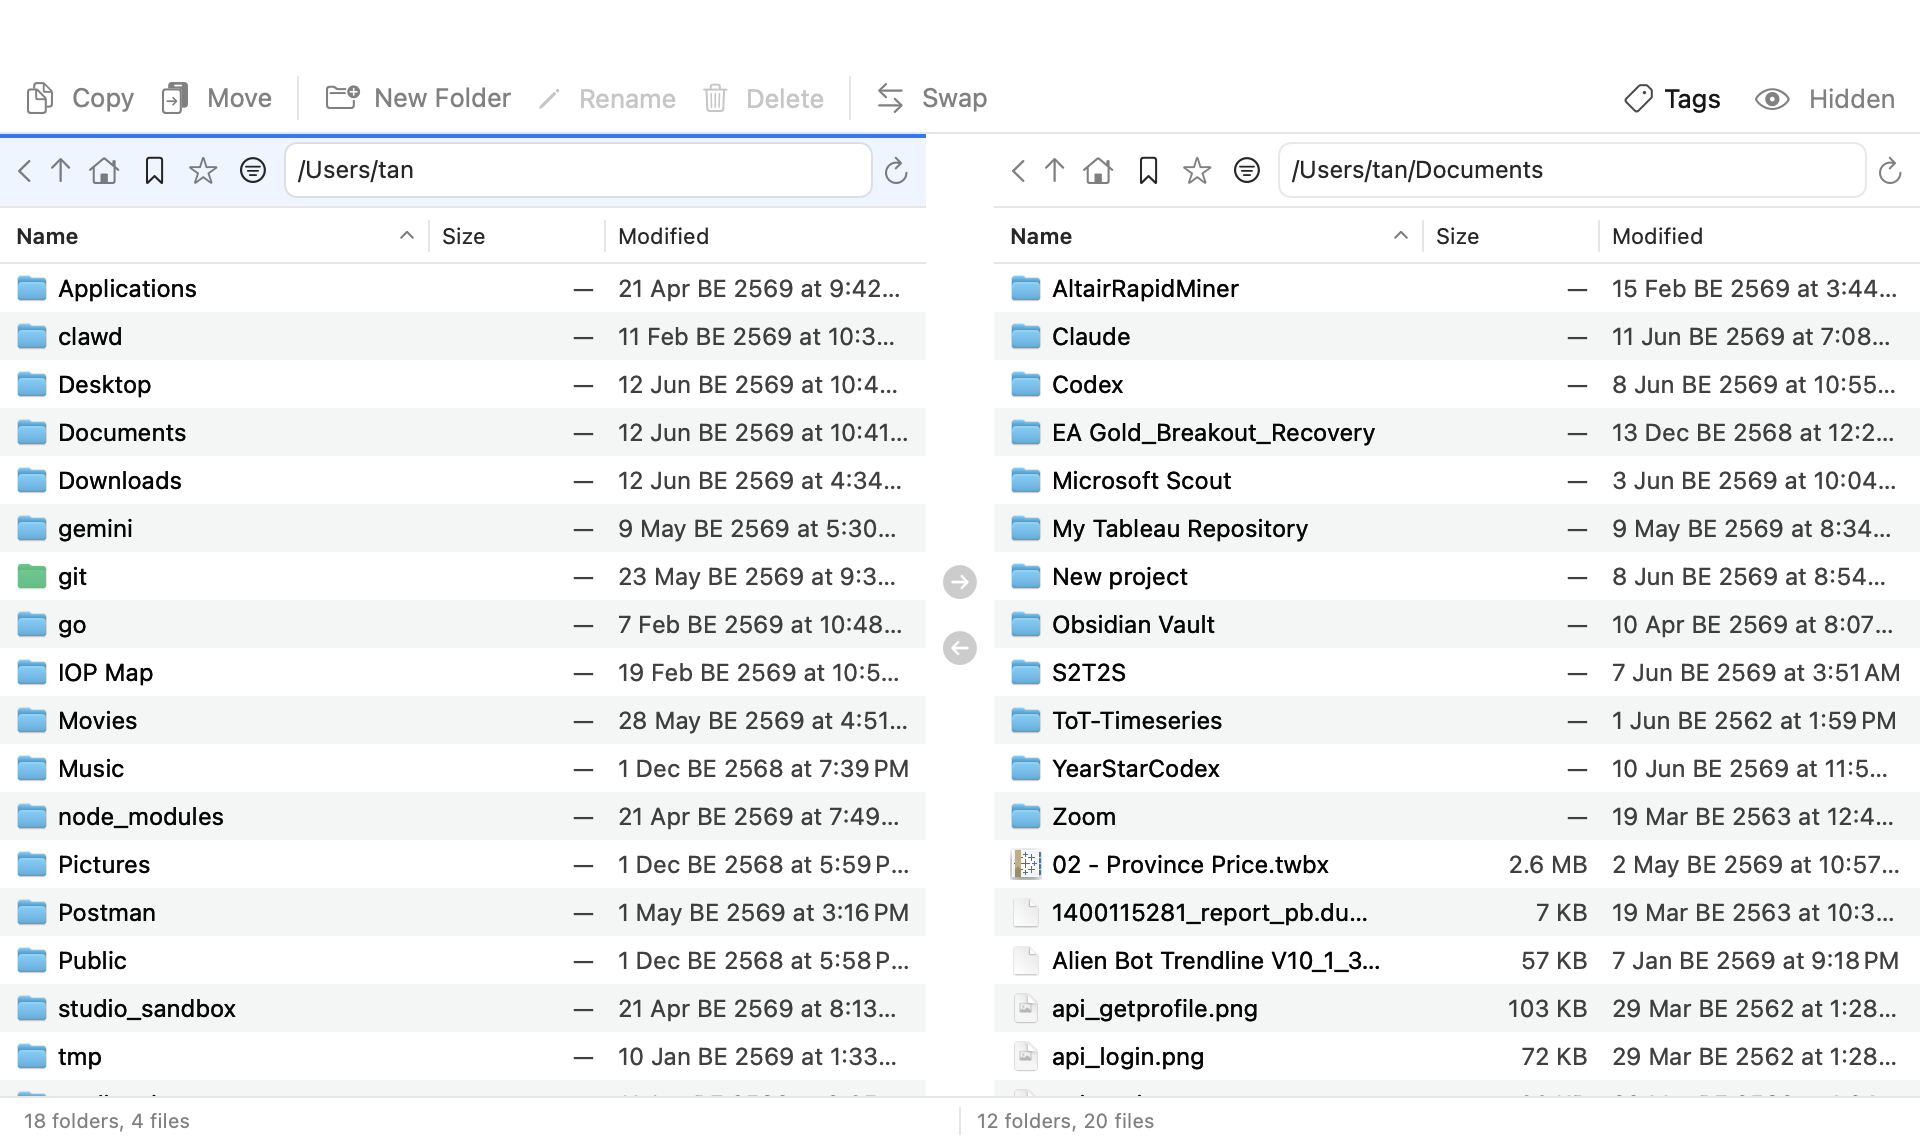
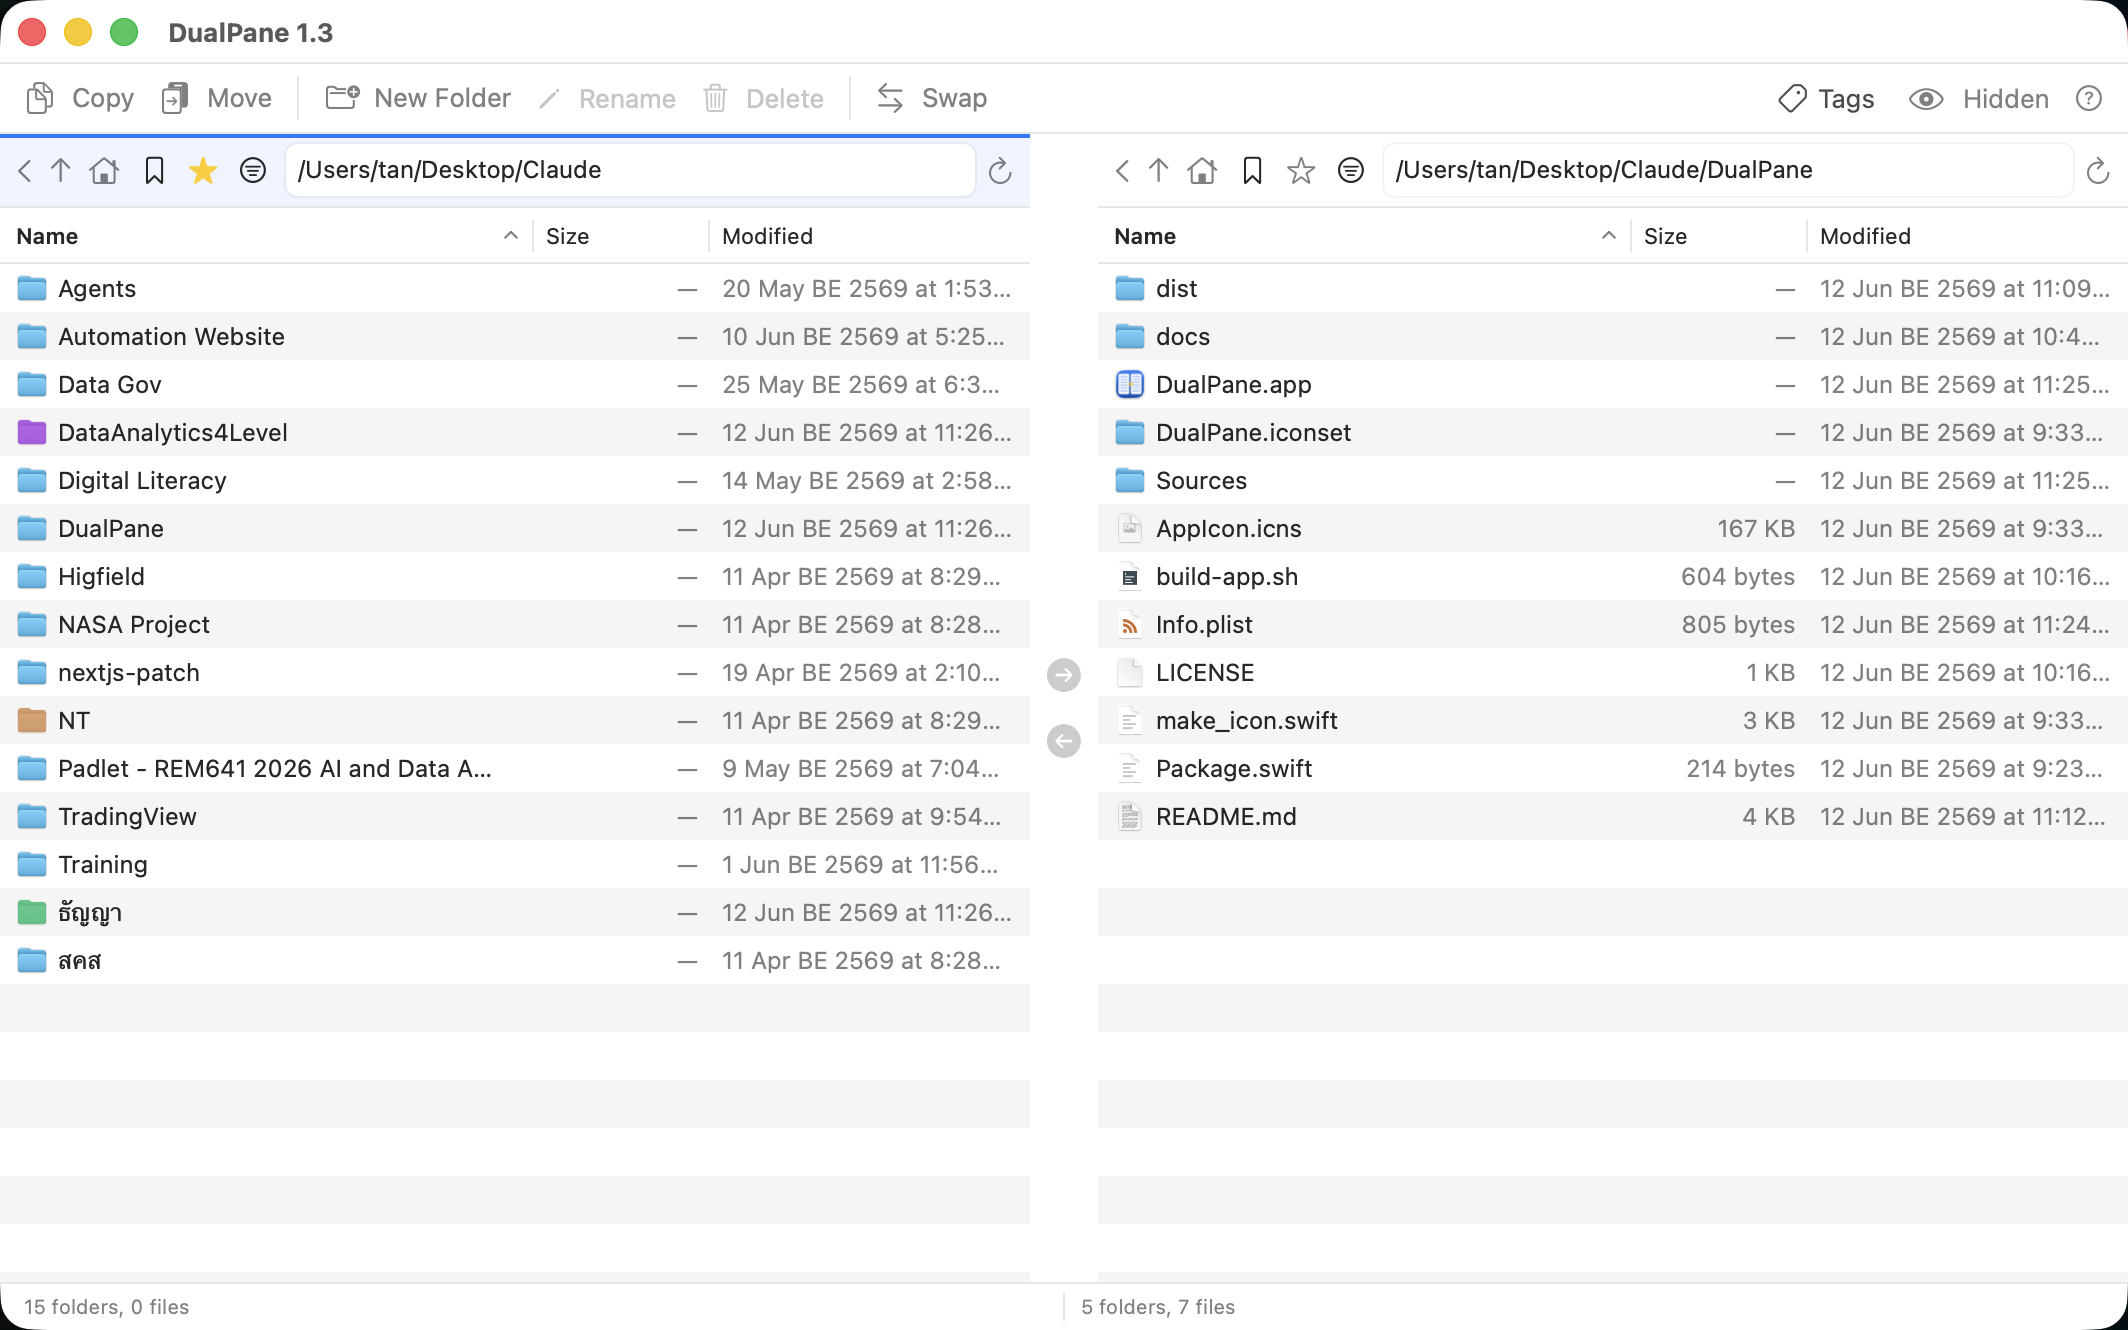
Add Rename to the right-click context menu
Shares the rename dialog with the toolbar button; enabled only for
single selection.

diff --git a/Sources/ContentView.swift b/Sources/ContentView.swift
@@ -45,6 +45,7 @@ struct ContentView: View {
                     isActive: activeSide == .left,
                     showTagColors: showTagColors,
                     onActivate: { activeSide = .left },
+                    onRename: { startRename(in: leftPane) },
                     onDropFiles: { copyDropped($0, into: leftPane) },
                     onCopyItems: { copyProviders(from: leftPane, cut: $0) },
                     onPasteItems: { paste($0, into: leftPane) }
@@ -56,6 +57,7 @@ struct ContentView: View {
                     isActive: activeSide == .right,
                     showTagColors: showTagColors,
                     onActivate: { activeSide = .right },
+                    onRename: { startRename(in: rightPane) },
                     onDropFiles: { copyDropped($0, into: rightPane) },
                     onCopyItems: { copyProviders(from: rightPane, cut: $0) },
                     onPasteItems: { paste($0, into: rightPane) }
@@ -102,10 +104,7 @@ struct ContentView: View {
             }
             .keyboardShortcut("n")
             toolButton("pencil", "Rename", help: "Rename selected item (⌘R)") {
-                if let item = active.selectedItems.first {
-                    renameText = item.name
-                    renameTarget = item
-                }
+                startRename(in: active)
             }
             .keyboardShortcut("r")
             .disabled(active.selection.count != 1)
@@ -442,6 +441,12 @@ struct ContentView: View {
         rightPane.reload()
     }
 
+    private func startRename(in pane: PaneModel) {
+        guard let item = pane.selectedItems.first else { return }
+        renameText = item.name
+        renameTarget = item
+    }
+
     private func performRename(_ item: FileItem) {
         defer { renameTarget = nil }
         let trimmed = renameText.trimmingCharacters(in: .whitespaces)
@@ -484,6 +489,7 @@ struct PaneView: View {
     let isActive: Bool
     let showTagColors: Bool
     let onActivate: () -> Void
+    let onRename: () -> Void
     let onDropFiles: ([URL]) -> Bool
     let onCopyItems: (Bool) -> [NSItemProvider]
     let onPasteItems: ([NSItemProvider]) -> Void
@@ -499,6 +505,7 @@ struct PaneView: View {
                 onCopy: { writeToPasteboard(cut: false) },
                 onCut: { writeToPasteboard(cut: true) },
                 onPaste: { pasteFromPasteboard() },
+                onRename: onRename,
                 onDrop: onDropFiles
             )
         }

diff --git a/Sources/FileTableView.swift b/Sources/FileTableView.swift
@@ -11,6 +11,7 @@ struct FileTableView: NSViewRepresentable {
     let onCopy: () -> Void
     let onCut: () -> Void
     let onPaste: () -> Void
+    let onRename: () -> Void
     let onDrop: ([URL]) -> Bool
 
     func makeCoordinator() -> Coordinator { Coordinator(self) }
@@ -276,6 +277,8 @@ struct FileTableView: NSViewRepresentable {
             menu.addItem(makeMenuItem("Open", #selector(menuOpen)))
             menu.addItem(makeMenuItem("Reveal in Finder", #selector(menuReveal)))
             menu.addItem(.separator())
+            menu.addItem(makeMenuItem("Rename…", #selector(menuRename)))
+            menu.addItem(.separator())
             menu.addItem(makeMenuItem("Copy", #selector(menuCopy)))
             menu.addItem(makeMenuItem("Cut", #selector(menuCut)))
             menu.addItem(makeMenuItem("Paste", #selector(menuPaste)))
@@ -300,6 +303,8 @@ struct FileTableView: NSViewRepresentable {
                 switch item.action {
                 case #selector(menuOpen), #selector(menuReveal), #selector(menuCopy), #selector(menuCut):
                     item.isEnabled = hasSelection
+                case #selector(menuRename):
+                    item.isEnabled = table.selectedRowIndexes.count == 1
                 case #selector(menuPaste):
                     item.isEnabled = canPaste
                 default:
@@ -315,6 +320,8 @@ struct FileTableView: NSViewRepresentable {
             let urls = table.selectedRowIndexes.compactMap { $0 < items.count ? items[$0].url : nil }
             NSWorkspace.shared.activateFileViewerSelecting(urls)
         }
+
+        @objc func menuRename(_ sender: Any?) { parent.onRename() }
 
         @objc func menuCopy(_ sender: Any?) { parent.onCopy() }
         @objc func menuCut(_ sender: Any?) { parent.onCut() }
